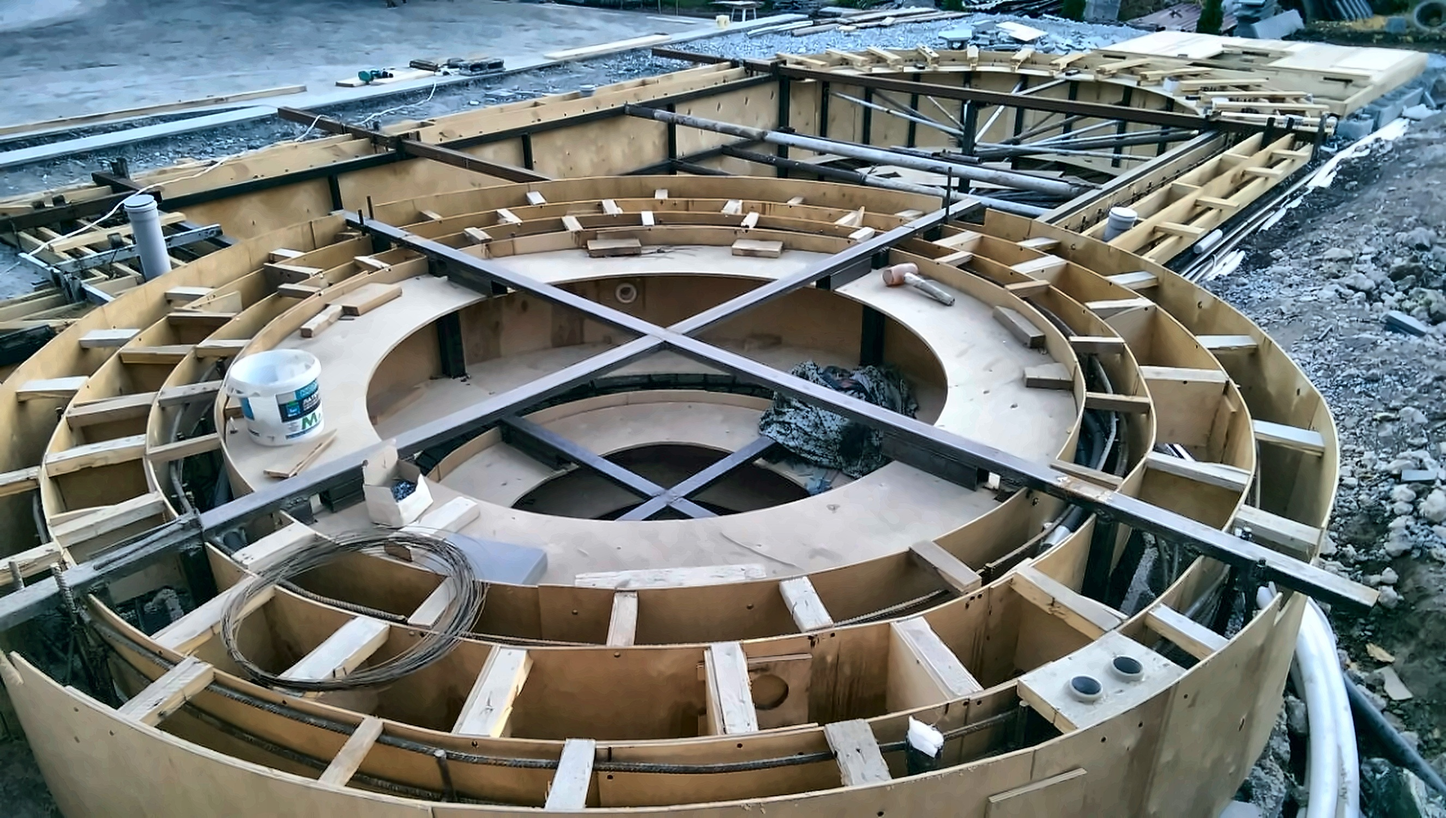
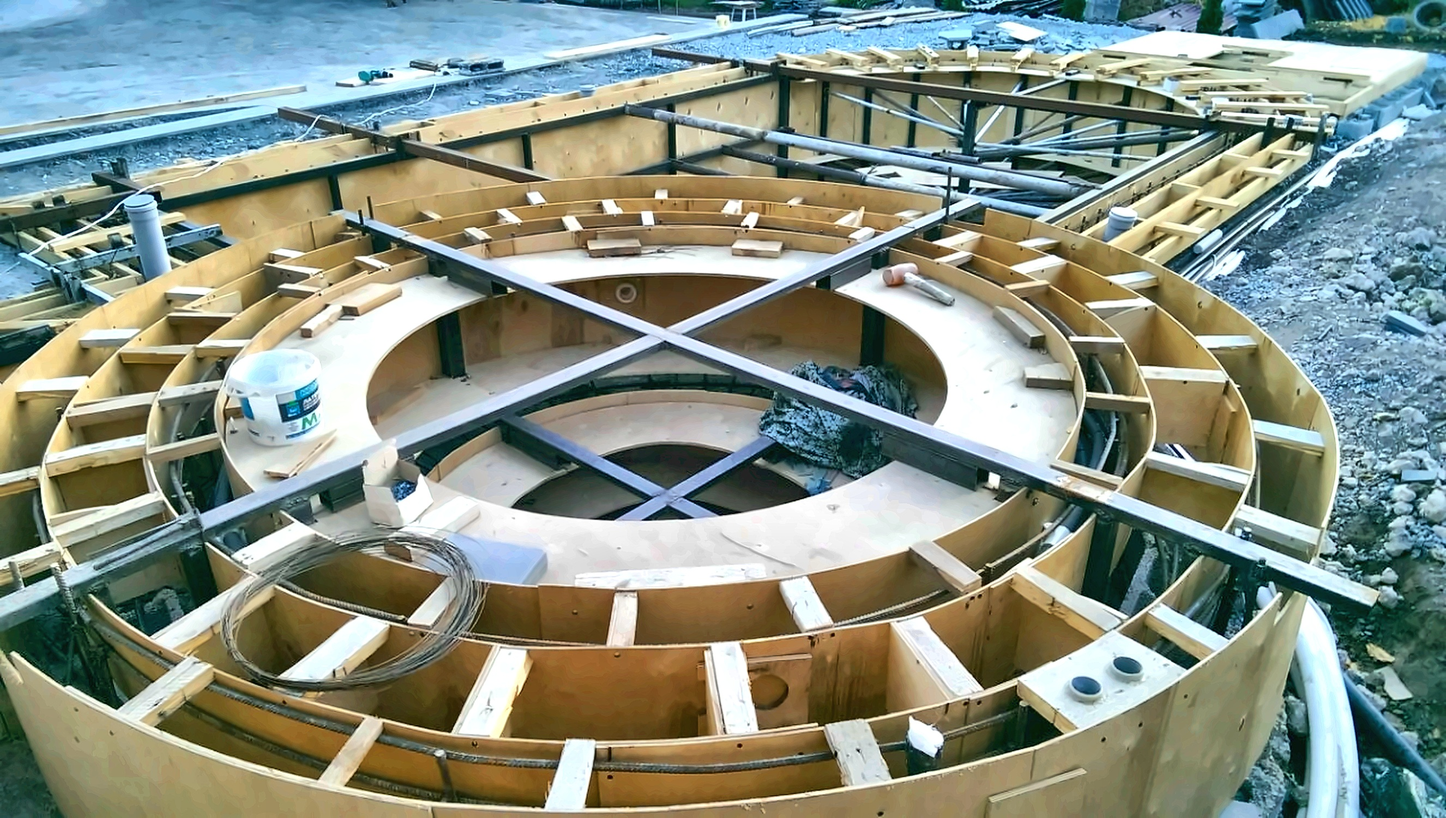
Brighter, more colourful enhancement of the owner's phone photos
Claude-Session: https://claude.ai/code/session_012ETB85fkqePMDV6srsSLi9

diff --git a/marketing/instagram/tools/enhance_photos.py b/marketing/instagram/tools/enhance_photos.py
@@ -11,28 +11,30 @@ import cv2, numpy as np
 def white_balance(img):
     lab = cv2.cvtColor(img, cv2.COLOR_BGR2LAB).astype(np.float32)
     a, b = lab[..., 1].mean(), lab[..., 2].mean()
-    lab[..., 1] -= (a - 128) * 0.7
-    lab[..., 2] -= (b - 128) * 0.7
+    lab[..., 1] -= (a - 128) * 0.3
+    lab[..., 2] -= (b - 128) * 0.3
     return cv2.cvtColor(np.clip(lab, 0, 255).astype(np.uint8), cv2.COLOR_LAB2BGR)
 
 def local_contrast(img):
     lab = cv2.cvtColor(img, cv2.COLOR_BGR2LAB)
     l, a, b = cv2.split(lab)
-    l = cv2.createCLAHE(clipLimit=1.8, tileGridSize=(8, 8)).apply(l)
+    l = cv2.createCLAHE(clipLimit=1.3, tileGridSize=(8, 8)).apply(l)
     return cv2.cvtColor(cv2.merge([l, a, b]), cv2.COLOR_LAB2BGR)
 
 def exposure(img):
     l = cv2.cvtColor(img, cv2.COLOR_BGR2LAB)[..., 0].mean() / 255.0
-    gamma = 1.0
-    if l < 0.42: gamma = 0.85      # lift dark photos
-    elif l > 0.68: gamma = 1.1     # tame washed-out ones
+    gamma = 0.88                   # brighter overall
+    if l < 0.42: gamma = 0.75      # lift dark photos more
+    elif l > 0.68: gamma = 0.97    # bright photos: only a touch
     lut = np.array([((i / 255.0) ** gamma) * 255 for i in range(256)]).astype(np.uint8)
     return cv2.LUT(img, lut)
 
-def vibrance(img, amount=0.18):
+def vibrance(img, amount=0.45):
     hsv = cv2.cvtColor(img, cv2.COLOR_BGR2HSV).astype(np.float32)
     s = hsv[..., 1] / 255.0
-    hsv[..., 1] = np.clip((s + amount * (1 - s) * s) * 255, 0, 255)
+    s = s * 1.28 + amount * (1 - s) * s          # saturation + vibrance
+    hsv[..., 1] = np.clip(s * 255, 0, 255)
+    hsv[..., 2] = np.clip(hsv[..., 2] * 1.05 + 4, 0, 255)  # a little more light
     return cv2.cvtColor(hsv.astype(np.uint8), cv2.COLOR_HSV2BGR)
 
 def sharpen(img, amount=0.6, radius=1.2):
@@ -50,6 +52,7 @@ def enhance(path, out):
     img = exposure(img)
     img = local_contrast(img)
     img = vibrance(img)
+    img = cv2.convertScaleAbs(img, alpha=1.06, beta=6)   # extra brightness/pop
     img = sharpen(img)
     cv2.imwrite(out, img, [cv2.IMWRITE_JPEG_QUALITY, 94])
 
